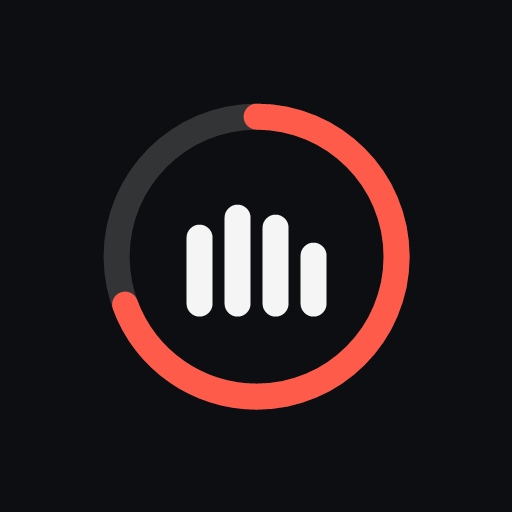
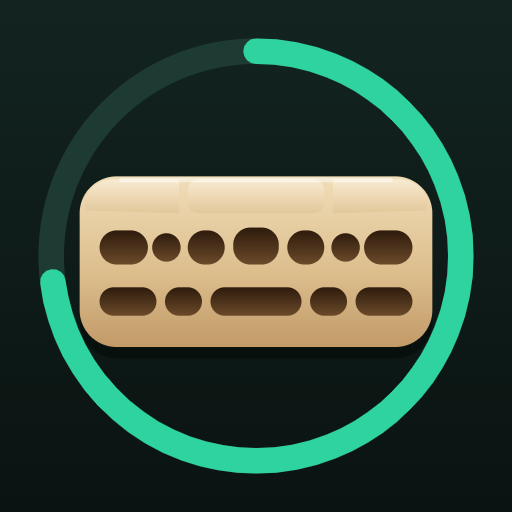
앱 아이콘 비스트메이커 보드 디자인으로 교체(안드로이드 원형용 포함), 신호등 색 부드럽게 전환

diff --git a/style.css b/style.css
@@ -3,6 +3,11 @@
   inherits: true;
   initial-value: #8A8F99;
 }
+@property --light {
+  syntax: '<color>';
+  inherits: true;
+  initial-value: #2FD3A0;
+}
 
 :root {
   --bg: #0D0E11;
@@ -36,7 +41,7 @@ body {
     radial-gradient(130% 55% at 50% -12%, color-mix(in srgb, var(--accent) 24%, transparent), transparent 72%),
     var(--bg);
   background-attachment: fixed;
-  transition: --accent .5s ease;
+  transition: --accent .5s ease, --light .9s linear; /* 신호등 색은 약 1초에 걸쳐 자연스럽게 섞이며 바뀜 */
 }
 body[data-phase="idle"]   { --accent: var(--hang); }
 body[data-phase="prep"]   { --accent: var(--prep); }
@@ -54,10 +59,10 @@ body[data-light="yellow"] { --light: #FFD23F; }
 body[data-light="red"]    { --light: #FF4545; }
 #light-glow {
   position: fixed; inset: 0; z-index: 5; pointer-events: none;
-  box-shadow: inset 0 0 0 0 transparent; transition: box-shadow .25s ease;
+  box-shadow: inset 0 0 0 0 transparent; transition: box-shadow .9s linear;
 }
-body[data-light="yellow"] #light-glow { box-shadow: inset 0 0 0 5px #FFD23F, inset 0 0 110px 20px rgba(255, 210, 63, .32); }
-body[data-light="red"] #light-glow { box-shadow: inset 0 0 0 8px #FF4545, inset 0 0 140px 30px rgba(255, 69, 69, .42); }
+body[data-light="yellow"] #light-glow { box-shadow: inset 0 0 0 5px var(--light), inset 0 0 110px 20px color-mix(in srgb, var(--light) 32%, transparent); }
+body[data-light="red"] #light-glow { box-shadow: inset 0 0 0 8px var(--light), inset 0 0 140px 30px color-mix(in srgb, var(--light) 42%, transparent); }
 
 button { font: inherit; color: inherit; border: 0; background: none; cursor: pointer; }
 [hidden] { display: none !important; }
@@ -318,12 +323,13 @@ svg.art { stroke: none; display: block; width: 100%; height: 100%; }
 .ring { width: 100%; height: 100%; transform: rotate(-90deg); }
 .ring circle { fill: none; stroke-width: 7; }
 .ring-bg { stroke: rgba(255,255,255,.06); }
-.ring-fg { stroke: var(--light); stroke-linecap: round; stroke-dasharray: 565.49; stroke-dashoffset: 0; transition: stroke .2s; }
+.ring-fg { stroke: var(--light); stroke-linecap: round; stroke-dasharray: 565.49; stroke-dashoffset: 0; }
 .count {
   position: absolute; inset: 0;
   display: grid; place-items: center;
   font-size: 44cqw; font-weight: 700; line-height: 1;
   letter-spacing: -.05em; font-variant-numeric: tabular-nums;
+  transition: color .9s linear;
 }
 .count.last { color: var(--light); }
 body[data-light="yellow"] .count, body[data-light="red"] .count { color: var(--light); }

diff --git a/sw.js b/sw.js
@@ -1,8 +1,8 @@
 // 온라인이면 항상 최신 파일을 받고, 오프라인이면 캐시로 동작
-const VERSION = 'hang-timer-v3';
+const VERSION = 'hang-timer-v4';
 const ASSETS = [
   './', './index.html', './style.css', './art.js', './app.js', './manifest.webmanifest',
-  './icons/icon-180.png', './icons/icon-192.png', './icons/icon-512.png',
+  './icons/icon-180.png', './icons/icon-192.png', './icons/icon-512.png', './icons/icon-maskable-512.png',
 ];
 
 self.addEventListener('install', e => {
